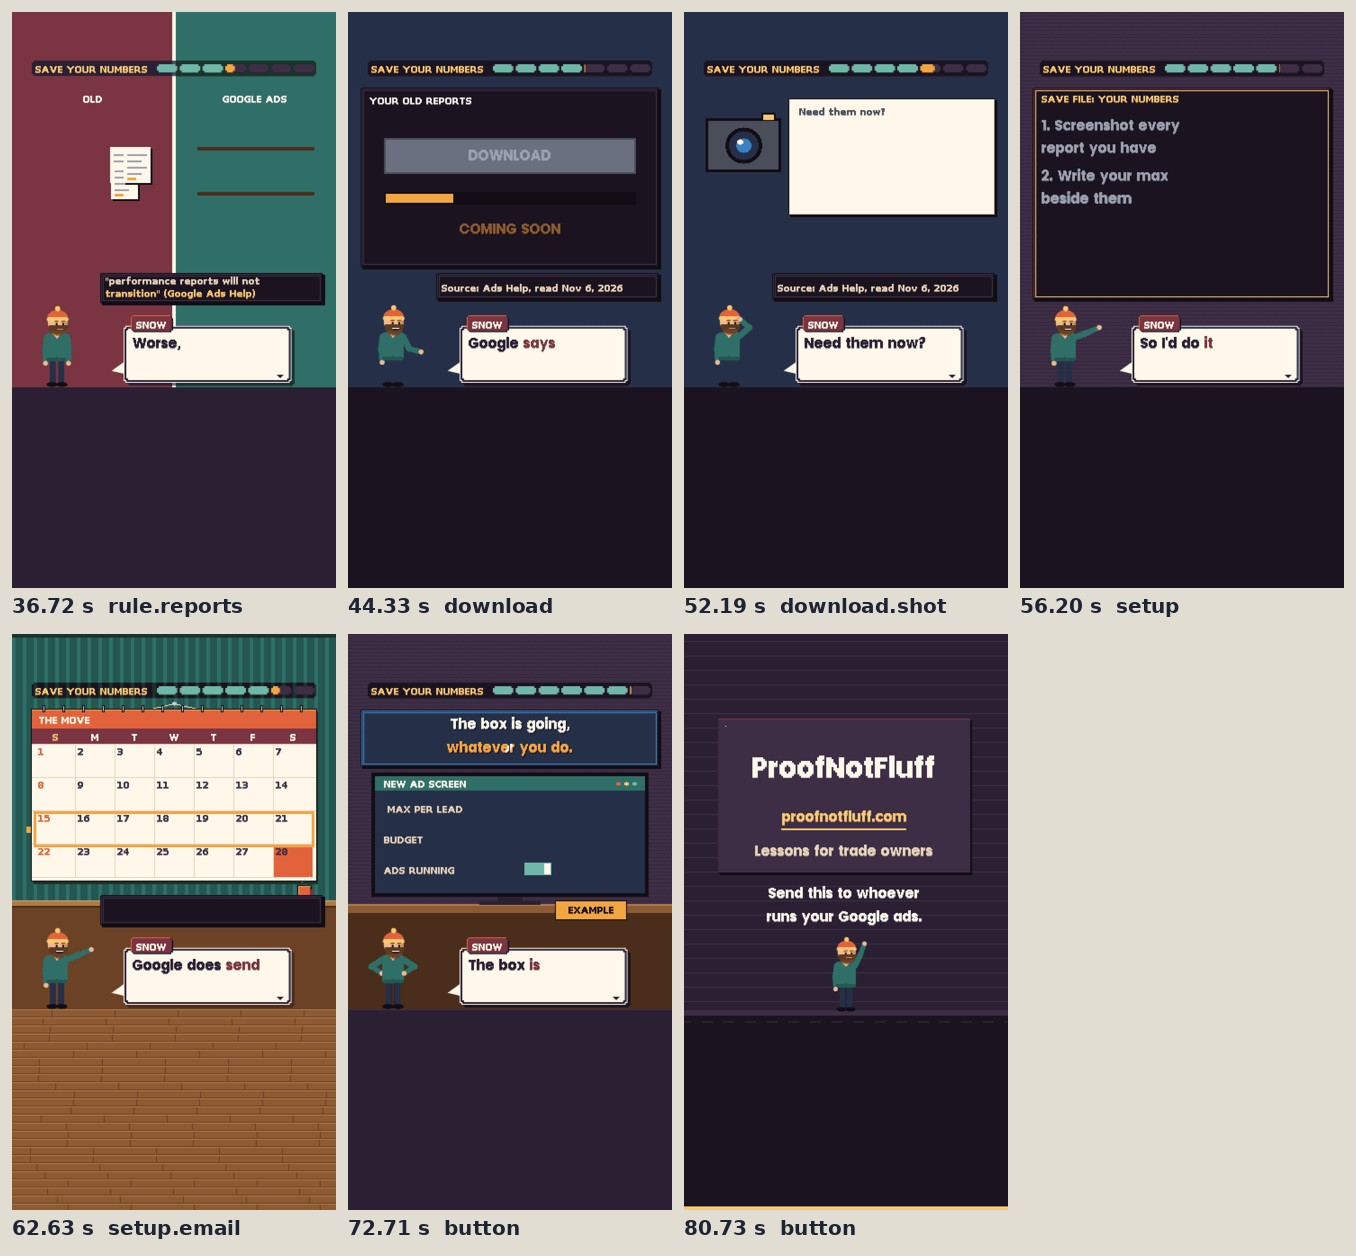
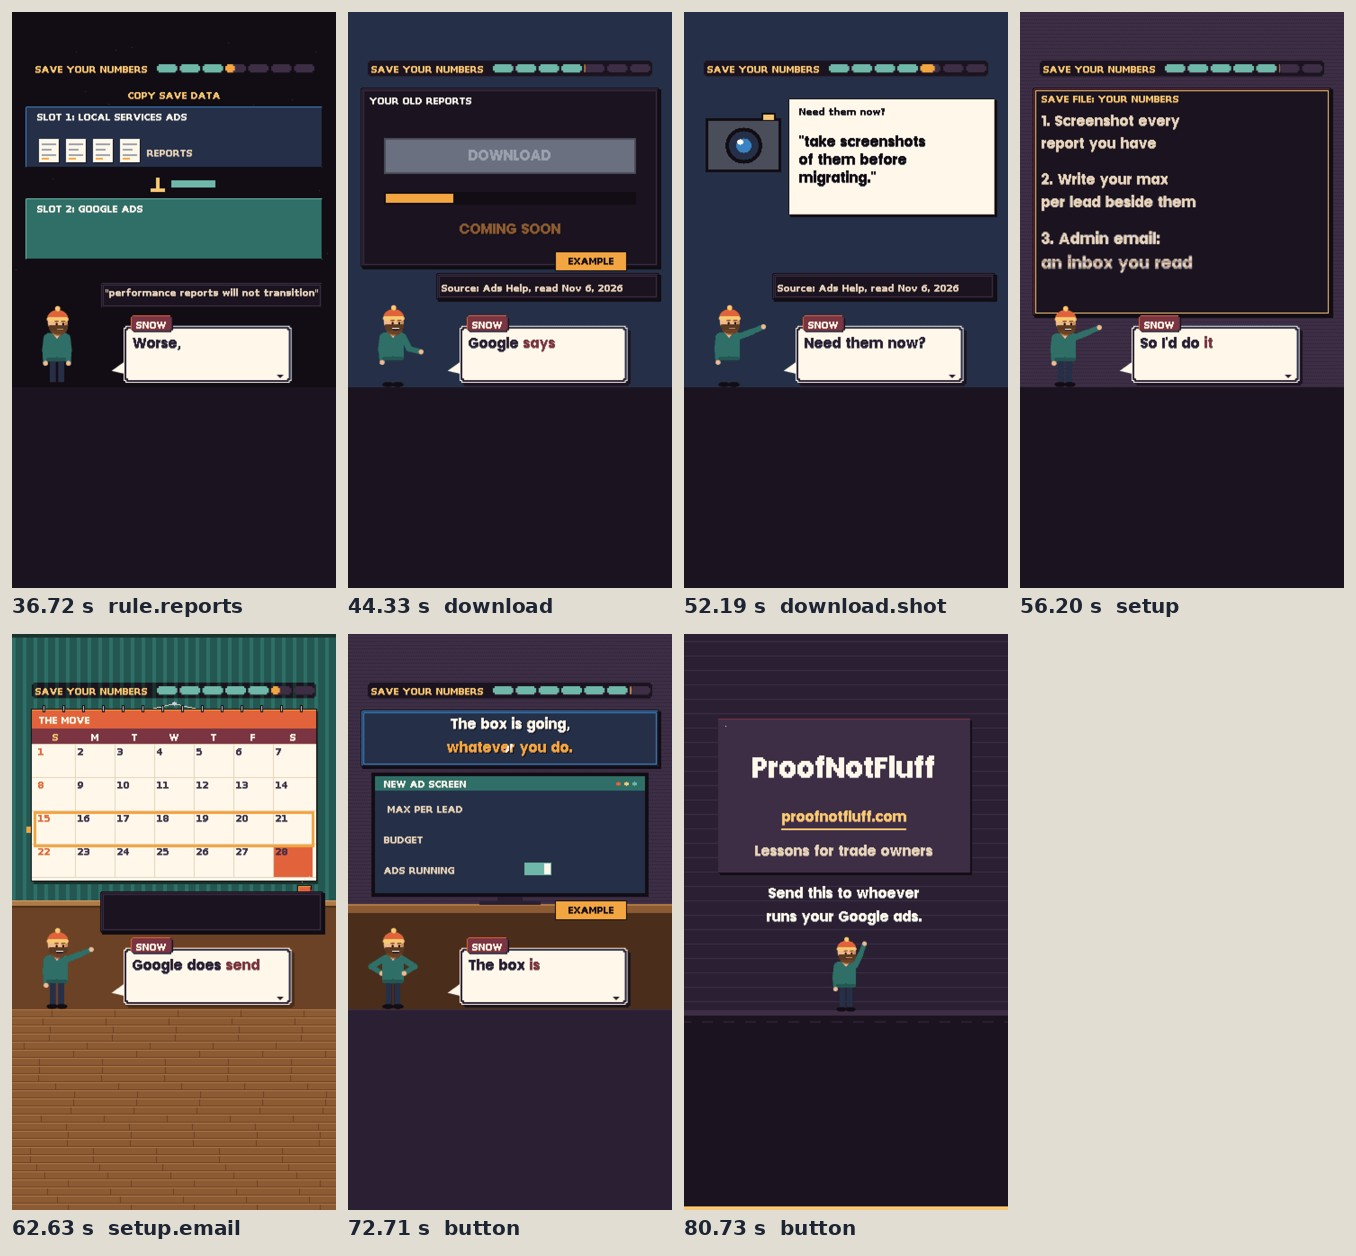
studio: lsa-max-bid gate round 0 fixes (design freshness, render critic, caption link)
Claude-Session: https://claude.ai/code/session_01XMn4eH6jv5VNCcbkSCRwZg

diff --git a/video/studio/videos/2026-11-18-lsa-max-bid/04_scene/scene.js b/video/studio/videos/2026-11-18-lsa-max-bid/04_scene/scene.js
@@ -112,7 +112,7 @@ const helpCard = (k, d, lines, t0, o = {}) => {
   win(14, 84 + up, 332, o.h || 150, {base: CREAM, hi: '#FFFFFF', lo: SAND, rule: false});
   P(14, 84 + up, 332, 20, '#3B82C4'); k.text('GOOGLE ADS HELP', 72, 258 + up * 3, {size: 39, color: CREAM});
   if (up) return;
-  let n = Math.max(0, Math.floor((k.T - t0 - 0.2) * 60));
+  let n = Math.max(0, Math.floor((k.T - t0 - 0.15) * 90));
   lines.forEach((s, i) => { const m = Math.min(s.length, n); n -= m; if (m) k.text(s.slice(0, m), 72, 336 + i * 64, {size: 52, color: INK}); });
   k.text('Source: Ads Help, read Nov 6, 2026', 72, (84 + (o.h || 150) - 18) * 3, {size: 36, color: '#4A4E5A'});
 };
@@ -125,39 +125,53 @@ window.SCENE = {
   host_name: 'Snow',
   hud: 'SAVE YOUR NUMBERS',
   sendLine: 'Send this to whoever runs your Google ads.',
-  transitions: {move: 'dissolve', now: 'fade4', rule: 'mosaic', download: 'dissolve', setup: 'levelselect', button: 'gameover'},
+  transitions: {move: 'dissolve', now: 'dissolve', rule: 'mosaic', download: 'mosaic', setup: 'levelselect', button: 'gameover'},
   trauma: {'hook.gone': 0.6},
   sections: {
     /* ---- hook: scene one, the box (cover, no host): our ad screen, the cursor in the MAX PER LEAD box; on "type" it   */
     /* fills gold. Scene two on "Then": the new screen, the box crumbles on "gone", BOX GONE stamps.                      */
     hook: (k, T) => {
       const tIn = Math.min(0.9, Math.max(0.5, wordT(k, 'hook', /^open/i, 0.4) + 0.2)), tType = wordT(k, 'hook', /^type/i, 1.6) - 0.05, tTwo = k.S('hook.gone'), tGone = wordT(k, 'hook.gone', /^moves?$/i, 1.0) + 0.3;
-      if (T >= tTwo) {
-        const d = monitor(k, {box: 'gone', goneAt: tGone - 0.3, newScreen: true});
-        topPlate(k, d, 'One day:', 'the box is gone.', tTwo + 0.02);
-        if (T >= tGone + 0.6) { const b = [0, -1, -2, -1][(d.F >> 3) % 4]; k.text('?', 756, 549 + b * 3, {size: 66, color: GOLD, align: 'center', lint: false}); loopSweep(k, 540 - k.measure('the box is gone.', {size: 66}) / 2, 410, k.measure('the box is gone.', {size: 66}), tGone + 0.6, 1.0); }
-        if (T >= tGone) stampBox(k, 'BOX GONE', 540, 820, tGone, {color: RED, freeze: 4});
-        exampleTag(d, 230, 296);
-        return host(k, T >= tGone ? 'shrug' : null);
-      }
-      if (T >= tIn) {
-        /* the close-up: the box big, the cursor in it; it fills gold on "type" */
-        const d = px(k), {P, dith} = d;
-        P(0, 0, 360, 417, '#1F2A40'); for (let y = 150; y < 417; y += 4) dith(0, y, 360, 1, '#253048', (y / 4) % 2);
-        { const fill = T >= tType, bx = 40, by = 206, bw = 280, bh = 56;
-          k.text('MAX PER LEAD', 120, 492, {size: 66, color: SAND});
-          P(bx - 2, by - 2, bw + 4, bh + 4, fill ? GOLD : SKY); P(bx, by, bw, bh, fill ? '#4A3A1A' : NIGHT);
-          const n = fill ? Math.min(8, Math.floor((T - tType) * 30)) : 0; if (n) k.text('YOUR MAX'.slice(0, n), 168, 642, {size: 99, color: GOLD});
-          if ((d.F >> 4) % 2 === 0) P(fill ? bx + 16 + Math.round(k.measure('YOUR MAX'.slice(0, n), {size: 99}) / 3) + 4 : bx + 14, by + 10, 4, 36, CREAM); }
+      const d = px(k), {P, dith} = d, bx = 40, by = 206, bw = 280, bh = 56;
+      P(0, 0, 360, 417, T >= tIn ? '#1F2A40' : '#3D2E45'); for (let y = 150; y < 417; y += 4) dith(0, y, 360, 1, T >= tIn ? '#253048' : '#2B2033', (y / 4) % 2);
+      P(0, 417, 360, 223, NIGHT);
+      const head = T >= tTwo ? 'NEW AD SCREEN' : 'LEAD ADS';
+      P(bx, 162, bw, 20, T >= tTwo ? '#2F6F67' : '#3B82C4'); k.text(head, 132, 492, {size: 48, color: CREAM, lint: false});
+      k.text('MAX PER LEAD', 120, 560, {size: 66, color: SAND});
+      if (T < tIn) {
+        /* the cover: an arcade name-entry screen, ENTER YOUR MAX, the empty field and a big pixel cursor */
+        P(0, 84, 360, 333, '#120D14'); for (let i = 0; i < 40; i++) d.DOT(Math.floor(hash(i * 3.3) * 360), 150 + Math.floor(hash(i * 7.7) * 260), (i % 3) ? '#3D2E45' : GOLD);
+        k.text('ENTER YOUR MAX', 540, 520, {size: 66, color: GOLD, align: 'center', drop: INK});
+        P(60, 200, 240, 50, SKY); P(62, 202, 236, 46, NIGHT); for (let i = 0; i < 6; i++) P(78 + i * 36, 238, 24, 4, GREY);
+        if ((d.F >> 4) % 2 === 0) P(80, 208, 4, 28, CREAM);
         topPlate(k, d, 'Your max per lead:', 'going away.', -1);
         exampleTag(d, 230, 296);
-        P(0, 417, 360, 223, NIGHT);
+        return {host: false, speech: false};
+      }
+      if (T < tTwo) {
+        const fill = T >= tType;
+        P(bx - 2, by + 22, bw + 4, bh + 4, fill ? GOLD : SKY); P(bx, by + 24, bw, bh, fill ? '#4A3A1A' : NIGHT);
+        const n = fill ? Math.min(8, Math.floor((T - tType) * 30)) : 0; if (n) k.text('YOUR MAX'.slice(0, n), 168, 708, {size: 99, color: GOLD});
+        if ((d.F >> 4) % 2 === 0) P(fill ? bx + 16 + Math.round(k.measure('YOUR MAX'.slice(0, n), {size: 99}) / 3) + 4 : bx + 14, by + 34, 4, 36, CREAM);
+        topPlate(k, d, 'Your max per lead:', 'going away.', -1);
+        exampleTag(d, 230, 296);
+        if (T < tIn) return {host: false, speech: false};
         return host(k);
       }
-      const d = monitor(k, {box: 'empty'});
-      topPlate(k, d, 'Your max per lead:', 'going away.', -1);
+      /* scene two: the field breaks into pixels that fall away (our native move), then BOX GONE */
+      const q = clamp((T - (tGone - 0.3)) / 0.7);
+      for (let yy = 0; yy < bh + 4; yy += 4) for (let xx = 0; xx < bw + 4; xx += 4) {
+        const h = hash(xx * 0.31 + yy * 1.7), go = q > h * 0.8, fall = go ? Math.round((q - h * 0.8) * 140 * (0.6 + h)) : 0;
+        if (by + 22 + yy + fall > 300) continue;
+        const edge = yy < 4 || yy >= bh || xx < 4 || xx >= bw; if (!edge && !go) continue;
+        P(bx - 2 + xx + (go ? Math.round((h - 0.5) * 20 * q) : 0), by + 22 + yy + fall, 3, 3, edge ? GOLD : '#4A3A1A');
+      }
+      if (q >= 1) { const b = [0, -1, -2, -1][(d.F >> 3) % 4]; k.text('?', 540, 690 + b * 3, {size: 99, color: GOLD, align: 'center', lint: false}); }
+      topPlate(k, d, 'One day:', 'the box is gone.', tTwo + 0.02);
+      if (q >= 1) loopSweep(k, 540 - k.measure('the box is gone.', {size: 66}) / 2, 410, k.measure('the box is gone.', {size: 66}), tGone + 0.6, 1.0);
+      if (T >= tGone) stampBox(k, 'BOX GONE', 540, 830, tGone, {color: RED, freeze: 4});
       exampleTag(d, 230, 296);
-      return {host: false, speech: false};
+      return host(k, T >= tGone ? 'shrug' : null);
     },
 
     /* ---- move: our own street, a van carrying the LOCAL SERVICES ADS sign drives into the GOOGLE ADS building. On      */
@@ -165,30 +179,26 @@ window.SCENE = {
     move: (k, T) => {
       const t0 = k.S('move'), tW = k.S('move.waves'), tTruck = wordT(k, 'move.waves', /^truck/i, 3.2), tWave = wordT(k, 'move.waves', /^wave$/i, 7.0) - 0.45, tLate = wordT(k, 'move.waves', /^late/i, 4.5);
       if (T < tW) {
-        const d = px(k), {P, dith, F} = d;
-        P(0, 0, 360, 417, SKY); for (let i = 0; i < 3; i++) { const cx = ((i * 140 - Math.floor(F / 5)) % 480 + 480) % 480 - 60; d.disc(cx, 60 + i * 10, 10, CREAM); d.disc(cx + 12, 56 + i * 10, 12, CREAM); }
-        /* the building */
-        P(200, 186, 150, 231, '#C9CCD3'); for (let y = 222; y < 350; y += 26) for (let x = 212; x < 340; x += 30) P(x, y, 18, 16, '#253048');
-        P(200, 160, 150, 26, '#3B82C4'); k.text('GOOGLE ADS', 825, 492, {size: 48, color: CREAM, align: 'center'});
-        P(250, 360, 50, 57, INK); P(254, 364, 42, 53, '#4A4E5A');
-        P(0, 417, 360, 223, '#2B2033'); P(0, 417, 360, 3, '#4A4E5A');
-        /* the van with its sign */
-        const vx = Math.round(-80 + Math.min(1, (T - t0) / Math.max(0.8, tW - t0 - 0.2)) * 330);
-        if (vx < 252) { k.sets.van(vx, 386, {wheel: F}); P(vx + 4, 352, 92, 26, INK); P(vx + 6, 354, 88, 22, ORANGE); k.text('LOCAL SERVICES', (vx + 10) * 3, 1064, {size: 30, color: INK, lint: false}); k.text('ADS', (vx + 10) * 3, 1094, {size: 30, color: INK, lint: false}); }
-        topPlate(k, d, 'Local Services Ads', 'move into Google Ads.', t0 + 0.05, {base: NIGHT, hi: '#3D2E45', rule: '#3D2E45'});
+        /* the dispatch board: a pin for Local Services Ads, a pin for Google Ads, the route draws between them */
+        const tGA = wordT(k, 'move', /^google$/i, 1.4);
+        k.sets.dispatch({pins: [{x: 0.14, y: 0.78, at: t0 + 0.05, c: '#E2633B'}, {x: 0.82, y: 0.3, at: tGA - 0.3, c: '#2F6F67'}],
+          routes: [{pts: [[0.14, 0.78], [0.14, 0.52], [0.5, 0.52], [0.5, 0.3], [0.82, 0.3]], at: tGA, dur: Math.max(1.2, tW - tGA - 0.4), c: '#E2633B'}]});
+        const d = px(k);
+        d.P(22, 220, 132, 22, INK); k.text('LOCAL SERVICES ADS', 72, 666, {size: 39, color: GOLD});
+        if (T >= tGA - 0.3) { d.P(196, 92, 132, 22, INK); k.text('GOOGLE ADS', 600, 282, {size: 48, color: CREAM}); }
         return host(k);
       }
       const d = px(k), {P, dith, win, F} = d;
       P(0, 0, 360, 417, '#245752'); for (let y = 0; y < 417; y += 4) dith(0, y, 360, 1, '#2F6F67', (y / 4) % 2);
       k.text('THE MOVE, IN WAVES', 72, 264, {size: 48, color: GOLD});
       const tiles = [['AUG 2026', 'FIRST WAVE', wordT(k, 'move.waves', /^august/i, 2.0) - 0.3], ['LATE 2026', 'NO STOREFRONT', tLate - 0.3], ['2027', 'THE REST', tLate + 0.4]];
-      tiles.forEach(([a, b, ti], i) => { const x = 18 + i * 110, lit = T >= ti, mine = i === 1 && T >= tTruck;
-        win(x, 104, 102, 120, {base: mine ? '#4A3A1A' : (lit ? '#253048' : NIGHT), hi: mine ? GOLD : '#3B82C4', lo: INK, rule: mine ? GOLD : false});
-        k.text(a, (x + 51) * 3, 354, {size: 48, color: lit ? CREAM : GREY, align: 'center'});
-        k.text(b, (x + 51) * 3, 420, {size: 36, color: lit ? SAND : GREY, align: 'center'}); });
+      tiles.forEach(([a, b, ti], i) => { const x = 14 + i * 98, lit = T >= ti, mine = i === 1 && T >= tTruck;
+        win(x, 104, 92, 120, {base: mine ? '#4A3A1A' : (lit ? '#253048' : NIGHT), hi: mine ? GOLD : '#3B82C4', lo: INK, rule: mine ? GOLD : false});
+        k.text(a, (x + 46) * 3, 354, {size: 48, color: lit ? CREAM : SAND, align: 'center'});
+        k.text(b, (x + 46) * 3, 420, {size: 36, color: lit ? SAND : '#C9B8A6', align: 'center'}); });
       /* the wave: a crest rolling along under the tiles */
       { const q = ((T - tW) * 0.5) % 1, cx = Math.round(18 + q * 330); for (let i = -20; i <= 20; i++) { const h = Math.round(6 * Math.cos(i / 20 * Math.PI / 2)); P(cx + i, 236 - h, 1, h + 2, SKY); } P(0, 238, 360, 4, '#3B82C4'); }
-      if (T >= tTruck) { const dy = d.ease(tTruck, 5, 30); k.sets.van(140, 182 - dy, {wheel: F}); if (!dy && T >= tWave) k.slam('YOUR WAVE', 495, 744, tWave, {size: 66, color: GOLD, align: 'center', from: 0.4}); }
+      if (T >= tTruck) { const dy = d.ease(tTruck, 5, 30); k.sets.van(126, 182 - dy, {wheel: F}); if (!dy && T >= tWave) k.slam('YOUR WAVE', 495, 744, tWave, {size: 66, color: GOLD, align: 'center', from: 0.4}); }
       plate(d, 98, 290, 248, 30); k.text('Source: Ads Help, read Nov 6, 2026', 312, 900, {size: 36, color: SAND});
       return host(k, T >= tTruck ? 'point' : null);
     },
@@ -215,27 +225,30 @@ window.SCENE = {
         if (T >= tMax) stampBox(k, 'NO MAX', 640, 830, tMax, {color: RED, freeze: 5});
         return host(k, T >= tMax ? 'point' : null);
       }
-      const d = px(k), {P, dith, F} = d, tBack = tR + 1.0;
-      P(0, 0, 180, 417, '#7A3442'); P(180, 0, 180, 417, '#2F6F67'); P(178, 0, 4, 417, CREAM);
-      k.text('OLD', 270, 270, {size: 48, color: CREAM, align: 'center'}); k.text('GOOGLE ADS', 810, 270, {size: 48, color: CREAM, align: 'center'});
-      /* the empty shelf on the right */
-      P(206, 200, 130, 4, '#4A2E1B'); P(206, 150, 130, 4, '#4A2E1B');
-      /* three report papers: they slide toward the line, hit it and bounce back */
-      const cyc = T < tBack + 0.25 ? 0 : (T - tBack - 0.25) % 1.4, again = T >= tBack + 0.25 ? (cyc < 0.5 ? cyc / 0.5 * 0.35 : Math.max(0, 0.35 - (cyc - 0.5) / 0.2 * 0.35)) : 0;
-      for (let i = 0; i < 3; i++) { const ph = T - tR - i * 0.12, push = ph < 0 ? 0 : (T < tBack ? Math.min(1, ph / 0.7) : Math.max(again, 1 - (T - tBack) / 0.25));
-        const x = 40 + i * 40 + Math.round(push * (150 - (40 + i * 40) - 30 + i * 4)), y = 150 + (i % 2) * 18;
-        P(x + 2, y + 2, 30, 40, INK); P(x, y, 30, 40, CREAM); for (let r = 0; r < 4; r++) P(x + 4, y + 8 + r * 7, 22 - (r % 2) * 6, 2, '#9AA0AD'); P(x + 4, y + 34, 10, 3, ORANGE); }
-      if (T >= tBack) stampBox(k, 'STAYS BEHIND', 540, 670, tBack, {color: GOLD, size: 48, freeze: 4});
-      P(0, 417, 360, 223, '#2B2033');
-      plate(d, 98, 290, 248, 34);
-      k.text('"performance reports will not', 312, 876, {size: 36, color: SAND}); k.text('transition" (Google Ads Help)', 312, 918, {size: 36, color: GOLD});
-      return host(k, T >= tBack ? 'shrug' : null);
+      const d = px(k), {P, dith, win, F} = d, tCopy = tR + 0.3, tFail = tR + 1.3, tLeads = wordT(k, 'rule.reports', /^stay/i, 1.6) - 0.3;
+      P(0, 0, 360, 417, '#120D14'); for (let i = 0; i < 30; i++) d.DOT(Math.floor(hash(i * 5.3) * 360), Math.floor(hash(i * 2.1) * 400), '#3D2E45');
+      P(0, 417, 360, 223, NIGHT);
+      k.text('COPY SAVE DATA', 540, 258, {size: 48, color: GOLD, align: 'center'});
+      win(14, 104, 332, 70, {base: '#253048', hi: '#3B82C4', lo: INK, rule: false});
+      k.text('SLOT 1: LOCAL SERVICES ADS', 84, 330, {size: 39, color: CREAM});
+      for (let i = 0; i < 4; i++) { const x = 30 + i * 30; P(x + 1, 142, 22, 26, INK); P(x, 141, 22, 26, CREAM); for (let r = 0; r < 3; r++) P(x + 3, 146 + r * 6, 16 - (r % 2) * 5, 2, GREY); P(x + 3, 162, 8, 2, ORANGE); }
+      k.text('REPORTS', 450, 450, {size: 39, color: SAND});
+      if (T >= tCopy) { const pr = clamp((T - tCopy) / 0.9), ok = T < tFail; P(160, 184, 4, 16, ok ? GOLD : RED); P(154, 196, 16, 4, ok ? GOLD : RED); P(176, 186, 150, 10, INK); P(177, 187, Math.round(148 * (ok ? pr : 0.62)), 8, ok ? TEAL : RED); }
+      const g = T >= tFail ? ((d.F >> 1) % 6 === 0 ? 3 : 0) : 0;
+      win(14 + g, 206, 332, 70, {base: '#2F6F67', hi: TEAL, lo: INK, rule: false});
+      k.text('SLOT 2: GOOGLE ADS', 84 + g * 3, 636, {size: 39, color: CREAM});
+      if (T >= tFail) { for (let i = 0; i < 6; i++) { const yy = (i % 2 ? 260 : 224) + Math.floor(hash(i + (d.F >> 2)) * 12); P(30, yy, 300, 2, i % 2 ? RED : '#120D14'); }
+        k.text('NO DATA', 300 + g * 3, 744, {size: 66, color: RED}); }
+      if (T >= tLeads) k.slam('Leads move. Reports stay behind.', 312, 870, tLeads, {size: 39, color: GOLD, from: 0.3});
+      plate(d, 98, 300, 248, 30);
+      k.text('"performance reports will not transition"', 312, 916, {size: 33, color: SAND, lint: false});
+      return host(k, T >= tFail ? 'shrug' : null);
     },
 
     /* ---- download: our drawn download screen: the button greyed, a bar that crawls and slips back, COMING SOON        */
     /* blinking twice a second. On "Need": a camera flash and the page's line, "take screenshots of them before migrating". */
     download: (k, T) => {
-      const t0 = k.S('download'), tShot = k.S('download.shot'), tTake = wordT(k, 'download.shot', /^screenshots?/i, 1.0) - 0.2;
+      const t0 = k.S('download'), tShot = k.S('download.shot'), tTake = k.S('download.shot') - 0.15;
       const d = px(k), {P, dith, win, F} = d;
       P(0, 0, 360, 417, '#1F2A40'); for (let y = 0; y < 417; y += 4) dith(0, y, 360, 1, '#253048', (y / 4) % 2); P(0, 417, 360, 223, NIGHT);
       if (T < tShot) {
@@ -245,6 +258,7 @@ window.SCENE = {
         const q = ((T - t0) * 0.45) % 1, w = Math.round(30 + 60 * Math.sin(q * Math.PI));
         P(40, 200, 280, 14, INK); P(42, 202, w, 10, ORANGE);
         const on = Math.floor((T - t0) * 2) % 2 === 0; k.text('COMING SOON', 540, 690, {size: 66, color: on ? GOLD : '#7A6A3A', align: 'center', drop: INK});
+        exampleTag(d, 230, 266);
         plate(d, 98, 290, 248, 30); k.text('Source: Ads Help, read Nov 6, 2026', 312, 900, {size: 36, color: SAND});
         return host(k);
       }
@@ -252,8 +266,8 @@ window.SCENE = {
       P(24, 118, 84, 60, INK); P(27, 121, 78, 54, '#4A4E5A'); d.disc(66, 148, 20, INK); d.disc(66, 148, 16, '#253048'); d.disc(66, 148, 8, '#3B82C4'); d.disc(62, 144, 3, CREAM); P(86, 112, 16, 8, INK); P(88, 114, 12, 6, GOLD);
       flash(k, d, tShot + 0.05); flash(k, d, tTake);
       win(116, 96, 230, 130, {base: CREAM, hi: '#FFFFFF', lo: SAND, rule: false});
-      k.text('Need them now?', 384, 312, {size: 48, color: '#4A4E5A'});
-      if (T >= tTake) { k.slam('"take screenshots', 384, 400, tTake, {size: 52, color: INK, from: 0.3}); k.slam('of them before', 384, 460, tTake + 0.08, {size: 52, color: INK, from: 0.3}); k.slam('migrating."', 384, 520, tTake + 0.16, {size: 52, color: INK, from: 0.3}); }
+      k.text('Need them now?', 384, 312, {size: 48, color: INK});
+      if (T >= tTake) { k.slam('"take screenshots', 384, 400, tTake, {size: 52, color: INK, from: 0.3}); k.slam('of them before', 384, 460, tTake, {size: 52, color: INK, from: 0.3}); k.slam('migrating."', 384, 520, tTake, {size: 52, color: INK, from: 0.3}); }
       plate(d, 98, 290, 248, 30); k.text('Source: Ads Help, read Nov 6, 2026', 312, 900, {size: 36, color: SAND});
       return host(k, T >= tTake ? 'point' : null);
     },
@@ -267,15 +281,15 @@ window.SCENE = {
         const d = px(k), {P, dith, win} = d;
         P(0, 0, 360, 417, '#3D2E45'); for (let y = 0; y < 417; y += 4) dith(0, y, 360, 1, '#2B2033', (y / 4) % 2); P(0, 417, 360, 223, NIGHT);
         const up = d.ease(t0 + 0.05, 6, 160);
-        d.clip(0, 0, 360, 322, () => win(14, 84 + up, 332, 236, {base: NIGHT, hi: '#7A3442', lo: INK, rule: GOLD}));
+        d.clip(0, 0, 360, 340, () => win(14, 84 + up, 332, 254, {base: NIGHT, hi: '#7A3442', lo: INK, rule: GOLD}));
         if (up !== 0) return host(k);
         k.text('SAVE FILE: YOUR NUMBERS', 72, 270, {size: 48, color: GOLD});
-        [['1. Screenshot every', 'report you have', tShot], ['2. Write your max', 'beside them', tMax]].forEach(([a, b, ti], i) => {
-          const lit = T >= ti - 0.25, y = 344 + i * 170;
-          k.slam(a, 72, y, Math.min(ti - 0.25, t0 + 0.3 + i * 0.1), {size: 66, color: lit ? GOLD : GREY, from: 0.3});
-          k.slam(b, 72, y + 76, Math.min(ti - 0.2, t0 + 0.35 + i * 0.1), {size: 66, color: lit ? CREAM : GREY, from: 0.3});
+        [['1. Screenshot every', 'report you have', tShot], ['2. Write your max', 'per lead beside them', tMax], ['3. Admin email:', 'an inbox you read', 1e9]].forEach(([a, b, ti], i) => {
+          const lit = T >= ti - 0.25, y = 330 + i * 196;
+          k.slam(a, 72, y, Math.min(ti - 0.25, t0 + 0.3 + i * 0.1), {size: 66, color: lit ? GOLD : SAND, from: 0.3});
+          k.slam(b, 72, y + 76, Math.min(ti - 0.2, t0 + 0.35 + i * 0.1), {size: 66, color: lit ? CREAM : SAND, from: 0.3});
           if (lit) k.sweep(72, y + 150, k.measure(b, {size: 66}), 6, ti - 0.2, {color: 'accent'}); });
-        loopSweep(k, 72, T >= tMax - 0.25 ? 664 : 494, k.measure(T >= tMax - 0.25 ? 'beside them' : 'report you have', {size: 66}), tShot + 0.6, 1.0);
+        loopSweep(k, 72, T >= tMax - 0.25 ? 676 : 480, k.measure(T >= tMax - 0.25 ? 'per lead beside them' : 'report you have', {size: 66}), tShot + 0.6, 1.0);
         if ((d.F >> 4) % 2 === 0) d.P(318, 254, 3, 14, GOLD);
         return host(k, 'point');
       }
@@ -286,10 +300,10 @@ window.SCENE = {
         weeks: Array.from({length: Math.max(1, Math.ceil((tEnv - 0.2 - tE) / 0.5))}, (_, i) => ({row: 3 - (i % 4), at: tE + i * 0.5})).concat([{row: 1, at: tEnv - 0.2}])});
       const d = px(k), {P} = d;
       { const [x, y] = c.cell ? c.cell(28 - n14) : [0, 0]; if (T >= tEnv + 0.1 && c.cell) { const dy = d.ease(tEnv + 0.1, 5, 16); P(x + 10, y + 6 - dy, 24, 16, INK); P(x + 11, y + 7 - dy, 22, 14, CREAM); d.line(x + 11, y + 7 - dy, x + 22, y + 15 - dy, '#9AA0AD'); d.line(x + 33, y + 7 - dy, x + 22, y + 15 - dy, '#9AA0AD'); } }
-      plate(d, 98, 290, 248, 34);
-      k.slam(`${n14} DAYS OUT: ADMIN EMAIL`, 312, 870, tEnv, {size: 39, color: GOLD, from: 0.3});
-      if (T >= tInbox + 0.4) loopSweep(k, 312, 960, k.measure('3. Admin email: an inbox you read', {size: 36}), tInbox + 0.4, 0.9, 4);
-      const lit3 = T >= tInbox - 0.3; k.slam('3. Admin email: an inbox you read', 312, 918, Math.min(tInbox - 0.3, tE + 0.6), {size: 36, color: lit3 ? CREAM : GREY, from: 0.3});
+      plate(d, 98, 286, 248, 46);
+      k.slam(`${n14} DAYS OUT: ADMIN EMAIL`, 312, 870, tEnv, {size: 48, color: GOLD, from: 0.3});
+      if (T >= tInbox + 0.4) loopSweep(k, 312, 984, k.measure('3. Admin email: an inbox you read', {size: 48}), tInbox + 0.4, 0.9, 4);
+      const lit3 = T >= tInbox - 0.3; k.slam('3. Admin email: an inbox you read', 312, 928, Math.min(tInbox - 0.3, tE + 0.6), {size: 48, color: lit3 ? CREAM : GREY, from: 0.3});
       return host(k, 'point');
     },
 
@@ -305,9 +319,10 @@ window.SCENE = {
       }
       /* the save game: the XP bar fills as the numbers go in; SAVED stamps on "move" (our game move at the close) */
       k.sets.levelup({from: 0, to: 100, max: 100, at: tSave - 0.3, dur: Math.max(0.8, tMove - tSave + 0.1), levelAt: tMove, level: 1, text: 'SAVED',
-        stats: [{text: 'REPORTS: SCREENSHOTS', at: tSave}, {text: 'MAX PER LEAD: NOTED', at: tSave + 0.4}]});
+        stats: []});
       const d = px(k);
       d.P(14, 84, 332, 40, NIGHT); k.text('SAVE FILE: YOUR NUMBERS', 540, 264, {size: 48, color: GOLD, align: 'center'});
+      [['+ REPORTS: SCREENSHOTS', tSave], ['+ MAX PER LEAD: NOTED', tSave + 0.4]].forEach(([t_, at_], i) => { if (T >= at_) k.slam(t_, 120, 700 + i * 60, at_, {size: 48, color: CREAM, from: 0.3}); });
       plate(d, 98, 290, 248, 34); k.slam('Before you move.', 312, 876, tMove - 0.3, {size: 48, color: GOLD, from: 0.4});
       return host(k, T >= tMove + 0.6 ? 'wave' : 'point');
     },

diff --git a/video/studio/videos/2026-11-18-lsa-max-bid/04_scene/data.js b/video/studio/videos/2026-11-18-lsa-max-bid/04_scene/data.js
@@ -1,1 +1,1 @@
[2 lines of base64/hex data omitted]
